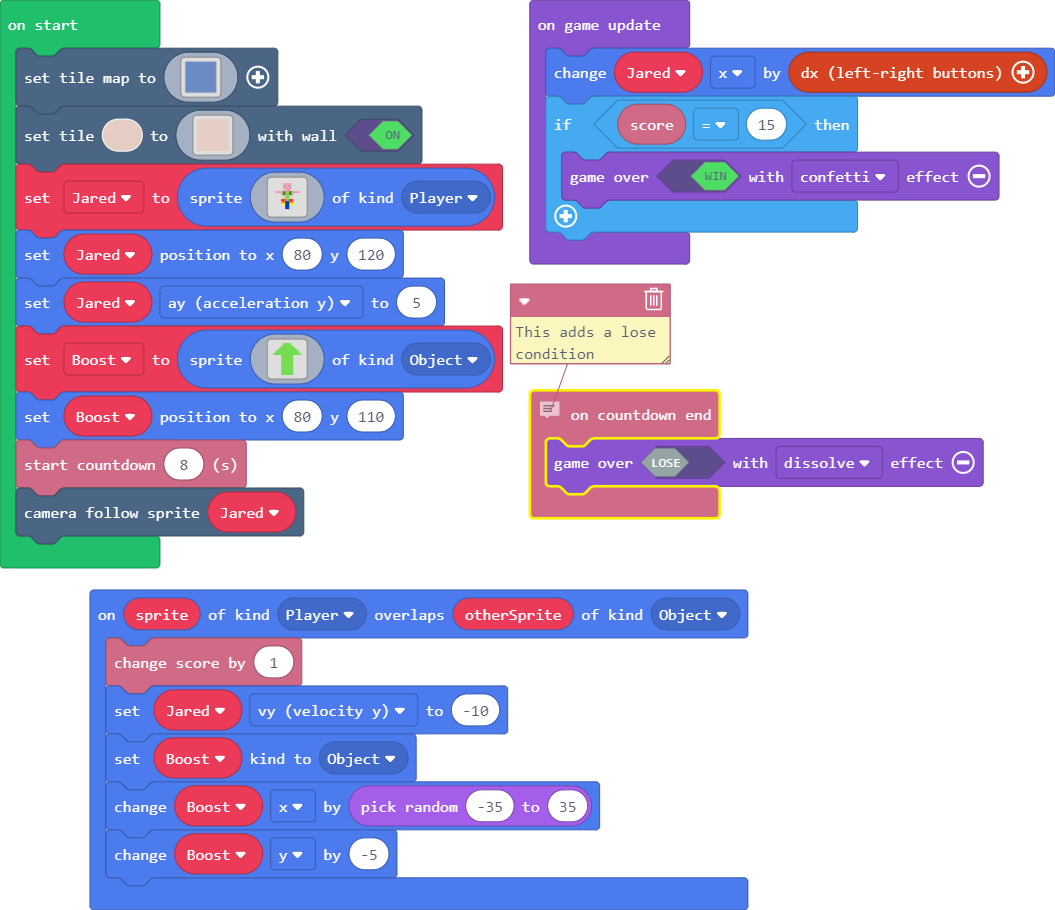
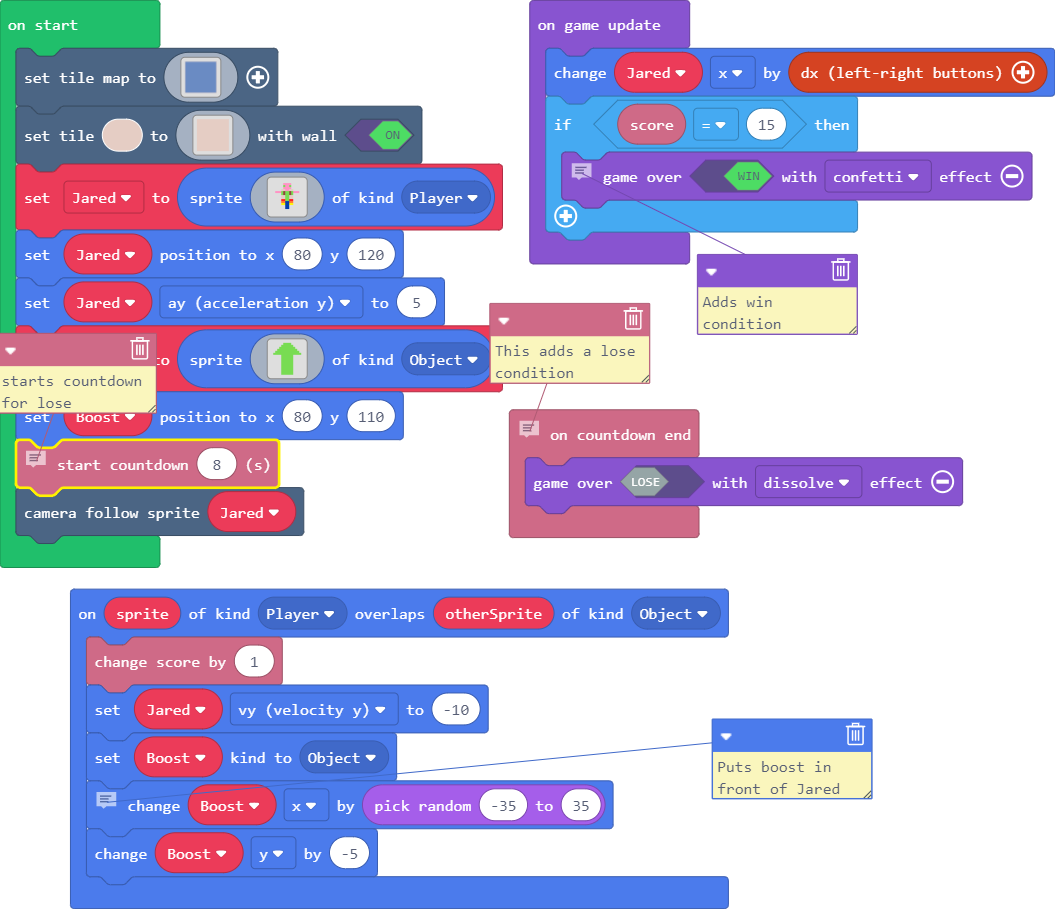
Update main.blocks, main.ts

diff --git a/main.ts b/main.ts
@@ -83,6 +83,7 @@ sprites.onOverlap(SpriteKind.Player, SpriteKind.Object, function (sprite, otherS
     info.changeScoreBy(1)
     Jared.vy = -10
     Boost.setKind(SpriteKind.Object)
+    // Puts boost in front of Jared
     Boost.x += Math.randomRange(-35, 35)
     Boost.y += -5
 })
@@ -215,11 +216,13 @@ Boost = sprites.create(img`
 . . . . . 7 7 7 7 7 7 . . . . . 
 `, SpriteKind.Object)
 Boost.setPosition(80, 110)
+// starts countdown for lose condition
 info.startCountdown(8)
 scene.cameraFollowSprite(Jared)
 game.onUpdate(function () {
     Jared.x += controller.dx()
     if (info.score() == 15) {
+        // Adds win condition
         game.over(true, effects.confetti)
     }
 })
